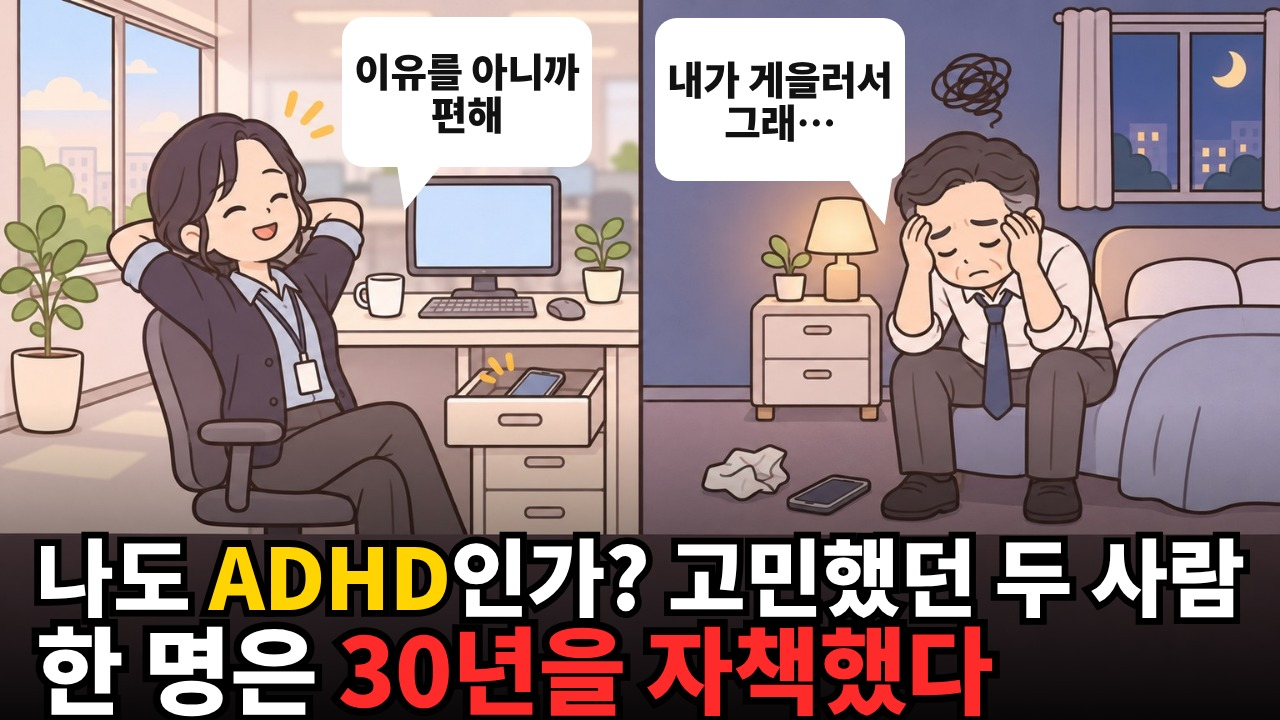
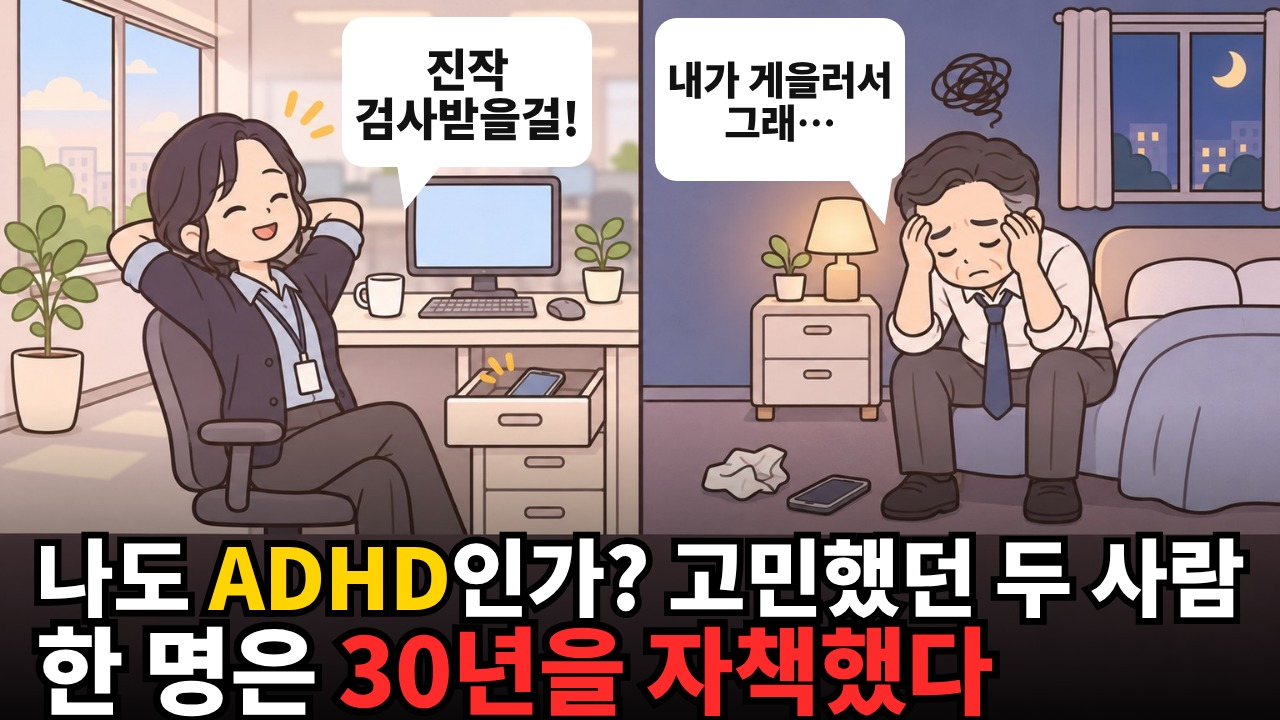
psychology: 성공 사례 썸네일 문구 갈래 분석 → ADHD 썸네일 실험안·A 말풍선 다시
- thumb_text_patterns.py v1.0: 성공 사례 94장 문구 갈래 (이유형 54.2 · 특징·비밀형 52.0 · 숫자 44.1 · 말풍선 인물 속마음 57.5 · 전체 30.0)
- 실험 1 「게으름인 줄 알았던 성인 ADHD / 스스로 확인할 3가지」 · 실험 2 「똑같이 미루던 두 사람 / 삶이 갈린 진짜 이유」 · A 「진작 검사받을걸!」
- thumbs_build.py v1.5 · status v4.56

Claude-Session: https://claude.ai/code/session_01PYG2MqrRa1FwGcWhbgqN1W

Changed region(s): [[0.2812, 0.0611, 0.4688, 0.2139]]

diff --git a/psychology/source/thumb_text_patterns.py b/psychology/source/thumb_text_patterns.py
@@ -1,0 +1,107 @@
+#!/usr/bin/env python3
+# -*- coding: utf-8 -*-
+# VERSION: v1.0 — 2026-11-24 — 신규: 심리 성공 사례 썸네일 문구 갈래 세기 (주요 문구·보조 문구)
+#   사용자 지시 2026-11-24 "실험형 썸네일 문구 성공 사례 분석해서 한거야? 분석해서 만들고 이유를 아니까를 진작에 할걸(예시) 이런식으로 고쳐봐".
+# CHANGELOG
+# | 버전 | 날짜 | 바뀐 것 | 함수 |
+# |---|---|---|---|
+# | v1.0 | 2026-11-24 | 최초 — 주요 문구 9갈래 · 보조 문구 4갈래 · 갈래마다 장 수·몫·구독자 배수 가운데값·예시 | classify · main |
+"""psychology/result/outliers/thumb_codes.tsv(성공 사례 썸네일 — Claude 가 그림을 보고 옮긴 주요·보조 문구) 를
+compare.csv(조회수·구독자 배수)와 이어 문구 갈래를 센다 → psychology/result/outliers/thumb_text_patterns.md
+
+한계: 성공 사례만 있음(실패 쪽 썸네일 문구는 분류하지 않았음) → '많이 쓰인 꼴'과 '그 안에서 배수가 큰 꼴'만 말할 수 있고,
+'이 꼴이 성공을 만든다'는 말할 수 없다. 갈래는 낱말 규칙(정규식) — 한 문구가 여러 갈래에 들 수 있다. 연구·교육용.
+실행: python3 psychology/source/thumb_text_patterns.py
+"""
+from __future__ import annotations
+
+import csv
+import re
+import statistics as st
+import sys
+import time
+from pathlib import Path
+
+ROOT = Path(__file__).resolve().parents[2]
+OUT = ROOT / "psychology" / "result" / "outliers"
+
+MAIN = [   # (갈래, 정규식, 설명)
+    ("이유형", r"이유", "'~하는 이유' — 까닭을 알려 준다는 약속"),
+    ("특징·비밀형", r"특징|공통점|비밀|심리|신호|습관", "'~하는 사람 특징·심리·비밀'"),
+    ("소름·놀람 낱말", r"소름|무서|놀라|충격|치명", "감정을 세게 거는 낱말"),
+    ("명령·경고형", r"마세요|마라|하세요|해라|하라|버리세요|하지 마", "'~하지 마세요 / ~하라'"),
+    ("질문형", r"\?|까$|까\?", "물음으로 끝남"),
+    ("1인칭 고백형", r"(^|[ '\"])(나|내|나는|내가|나를|나만|내 )|요\.{2,}|요…|다$|네\.{2,}|없다|졌다", "'나는 친구가 없다'·'혼자가 편해졌다' — 그 사람 목소리"),
+    ("후회·가정형", r"진작|더라면|할걸|했으면|몰랐", "'이 책을 진작 알았더라면…'"),
+    ("숫자", r"\d", "가짓수·나이·연도"),
+    ("말줄임", r"\.\.|…", "말끝을 흐림"),
+]
+SUB = [
+    ("인물 속마음·대사", r"\.\.|…|!|\?|요$|해$|어$|네$|지$|됐어|만;;", "그림 속 사람이 하는 말·속마음 ('제발 그만 오면 안되나..', '언젠간 쓰겠지..')"),
+    ("권위·출처", r"정신과|의사|교수|전문의|정약용|쇼펜하우어|사르트르|니체|대표", "'정신과의사'·'김형석 교수'"),
+    ("숫자", r"\d", "'12년'·'65세'·'3일'"),
+]
+
+
+def load():
+    try:
+        rows = [r for r in csv.reader(open(OUT / "thumb_codes.tsv", encoding="utf-8"), delimiter="\t") if r and not r[0].startswith("#")]
+        cmp = {r["id"]: r for r in csv.DictReader(open(OUT / "compare.csv", encoding="utf-8-sig"))}
+    except OSError as ex:
+        sys.exit(f"[LOAD] 분석 결과를 읽지 못함 ({ex}) — cloud_run.py psychology analyze 먼저")
+    hdr, rows = rows[0], rows[1:]
+    out = []
+    for r in rows:
+        d = dict(zip(hdr, r))
+        c = cmp.get(d["id"])
+        if not c or c.get("success") != "True":          # 지금 성공 사례만
+            continue
+        d["ratio"] = float(c["ratio"] or 0)
+        d["views"] = int(float(c["views"] or 0))
+        d["title"] = c["title"]
+        out.append(d)
+    return out
+
+
+def table(items, cats, key):
+    n = len(items)
+    lines = [f"| 갈래 | 장 수 | 몫 | 구독자 배수 가운데값 | 조회수 가운데값 | 예시 (배수) |", "|---|---|---|---|---|---|"]
+    base = st.median([i["ratio"] for i in items])
+    res = []
+    for name, rx, desc in cats:
+        hit = [i for i in items if i[key] and re.search(rx, i[key])]
+        if not hit:
+            lines.append(f"| {name} | 0 | 0% | — | — | — |")
+            continue
+        med = st.median([i["ratio"] for i in hit])
+        ex = " · ".join(f"「{i[key][:22]}」({i['ratio']:.0f})" for i in sorted(hit, key=lambda x: -x["ratio"])[:3])
+        lines.append(f"| {name} — {desc} | {len(hit)} | {len(hit) / n * 100:.0f}% | {med:.1f} (전체 {base:.1f}) | {st.median([i['views'] for i in hit]):,.0f} | {ex} |")
+        res.append((name, len(hit), med))
+    return lines, res
+
+
+def main() -> int:
+    t0 = time.time()
+    items = load()
+    print(f"[LOAD] [{time.strftime('%Y-%m-%dT%H:%M:%S')}] success_thumbs={len(items)} with_sub={sum(1 for i in items if i['sub_text'])}")
+    L = ["# 심리 성공 사례 썸네일 문구 갈래", "",
+         f"> `psychology/source/thumb_text_patterns.py` v1.0 · {time.strftime('%Y-%m-%d')} · 사용자 지시 \"실험형 썸네일 문구 성공 사례 분석해서 한거야? 분석해서 만들고 …\"",
+         f"> 자료: `thumb_codes.tsv` 성공 사례 {len(items)}장 (Claude 가 그림을 보고 옮긴 문구) + `compare.csv` 배수. **한계: 성공 사례만** — 많이 쓰인 꼴·그 안에서 배수가 큰 꼴만 보임, 인과 아님. 갈래는 낱말 규칙(겹침 있음).", ""]
+    L += ["## 1. 주요 문구 (큰 글자)", ""]
+    t, res_m = table(items, MAIN, "main_text")
+    L += t
+    subs = [i for i in items if i["sub_text"]]
+    L += ["", f"## 2. 보조 문구 (말풍선·꼬리표) — 있는 썸네일 {len(subs)}/{len(items)}장 ({len(subs) / len(items) * 100:.0f}%)", ""]
+    t, res_s = table(subs, SUB, "sub_text")
+    L += t
+    L += ["", "## 3. 가운데값 비교 — 보조 문구가 있는 썸네일 vs 없는 썸네일", "",
+          f"- 있음 {len(subs)}장 배수 가운데값 {st.median([i['ratio'] for i in subs]):.1f} · 없음 {len(items) - len(subs)}장 {st.median([i['ratio'] for i in items if not i['sub_text']]):.1f}", ""]
+    (OUT / "thumb_text_patterns.md").write_text("\n".join(L) + "\n", encoding="utf-8")
+    for name, n, med in res_m + res_s:
+        print(f"[PATTERN] {name} n={n} ratio_median={med:.1f}")
+    print(f"[DONE] out={(OUT / 'thumb_text_patterns.md').relative_to(ROOT)} seconds={time.time() - t0:.1f}")
+    return 0
+
+
+if __name__ == "__main__":
+    sys.exit(main())

diff --git a/psychology/source/thumbs_build.py b/psychology/source/thumbs_build.py
@@ -1,6 +1,7 @@
 #!/usr/bin/env python3
 # -*- coding: utf-8 -*-
-# VERSION: v1.4 — 2026-11-24 — 편마다 3안을 따로 (variants: 안마다 문구 2줄·말풍선 여러 개) — 사용자 지시 "둘다 말풍선 넣고 두번재 줄 괄호 제거해 그리고 나머지 2개는 실험형으로 너가 문구를 만드는 거야"
+# VERSION: v1.5 — 2026-11-24 — adhd-ab-2026-11 실험 문구·A 말풍선을 성공 사례 썸네일 분석(thumb_text_patterns.md)으로 — 사용자 지시 "실험형 썸네일 문구 성공 사례 분석해서 한거야? 분석해서 만들고 이유를 아니까를 진작에 할걸(예시) 이런식으로 고쳐봐"
+# 이전 v1.4 — 2026-11-24 — 편마다 3안을 따로 (variants: 안마다 문구 2줄·말풍선 여러 개) — 사용자 지시 "둘다 말풍선 넣고 두번재 줄 괄호 제거해 그리고 나머지 2개는 실험형으로 너가 문구를 만드는 거야"
 # 이전 v1.3 — 2026-11-24 — adhd-ab-2026-11 (일상툰 · 그림 아래 어두운 띠 y 74% 부터): 편마다 글 상자(l1·l2)·꼬리 방향·설명 줄을 따로 — 사용자 지시 "1번으로 하고 썸네일 만들어봐"
 # 이전 v1.2 — 2026-11-13 — 말풍선 꼬리가 말하는 사람(말풍선 왼쪽 아래) 쪽으로 기울게 (tail right · 18%)
 # 이전 v1.1 — 2026-11-13 — 말풍선을 머리 옆 빈 곳 끝까지 넓히고 줄을 나눠 글자를 키움 (40~46px → 크게 · 낱말 그대로)
@@ -9,6 +10,7 @@
 # CHANGELOG
 # | 버전 | 날짜 | 바뀐 것 | 함수 |
 # |---|---|---|---|
+# | v1.5 | 2026-11-24 | adhd-ab-2026-11 실험 1·2 = 성공 사례 갈래(특징+숫자 · 이유형) · A 말풍선 = 인물 속마음 「진작 검사받을걸!」 | EP |
 # | v1.4 | 2026-11-24 | variants (안마다 문구·말풍선 여러 개) — package.json thumb_tests 와 글자 대조 | build |
 # | v1.3 | 2026-11-24 | 편마다 l1·l2 글 상자 · tail·tailPos · note (adhd-ab-2026-11) | EP · bubble · build |
 # | v1.2 | 2026-11-13 | 꼬리 방향 = 말하는 사람 쪽 | bubble |
@@ -68,13 +70,13 @@ EP = {
     "adhd-ab-2026-11": {
         "l1": [36, 524, 1208, 94], "l2": [36, 616, 1000, 100],
         # v1.4 두 사람 모두 말풍선 — A 머리 오른쪽 사무실 벽(모니터 위) · B 머리 왼쪽 어두운 벽 (사람·스탠드·낙서 구름을 가리지 않음)
-        "bubbles": [[[410, 20, 300, 180], "이유를 아니까\n편해", "right", 0.18], [[786, 22, 300, 196], "내가 게을러서\n그래…", "left", 0.78]],
+        "bubbles": [[[410, 20, 300, 180], "진작\n검사받을걸!", "right", 0.18], [[786, 22, 300, 196], "내가 게을러서\n그래…", "left", 0.78]],
         "variants": [
             ("본안 — 사용자 문구", [[["나도 ", "W"], ["ADHD", "Y"], ["인가? 고민했던 두 사람", "W"]], [["한 명은 ", "W"], ["30년을 자책했다", "R"]]]),
-            ("실험 1 — 영상의 질문 + 안 받은 쪽 결과", [[["ADHD 검사, ", "W"], ["시간 낭비", "Y"], ["일까?", "W"]], [["안 받은 사람의 ", "W"], ["30년", "R"]]]),
-            ("실험 2 — 게으름이 아닌 이유", [[["게으른 줄", "Y"], [" 알았던 두 사람", "W"]], [["한 명만 ", "W"], ["진짜 이유", "Y"], ["를 알았다", "W"]]]),
+            ("실험 1 — 특징·비밀형 + 숫자 (성공 사례 배수 52.0 · 숫자 44.1)", [[["게으름인 줄 알았던 ", "W"], ["성인 ADHD", "Y"]], [["스스로 확인할 ", "W"], ["3가지", "Y"]]]),
+            ("실험 2 — 이유형 (성공 사례 배수 54.2)", [[["똑같이 미루던 두 사람", "W"]], [["삶이 갈린 ", "W"], ["진짜 이유", "Y"]]]),
         ],
-        "note": "본안 = 사용자 문구 · 실험 1·2 = Claude 문구 · 말풍선 = A(대본 80번 생각과 같은 뜻)·B(대본 46번) — 제목이 정해지면 persona_loop title 단계",
+        "note": "본안 = 사용자 문구 · 실험 1·2 = 성공 사례 썸네일 갈래(psychology/result/outliers/thumb_text_patterns.md) · 말풍선 = 인물 속마음(갈래 배수 57.5) A 「진작 검사받을걸!」·B(대본 46번) — 제목이 정해지면 persona_loop title 단계",
         "_": "B 머리(x 70~82% · y 18~42%) 왼쪽 어두운 벽 (스탠드 x 63~69% · y 27% 아래는 비움) · A 쪽은 비워 둠",
     },
 }

diff --git a/guides/status.md b/guides/status.md
@@ -1,6 +1,7 @@
 # 지금 상태·다음 할 일 (인수인계)
 
-버전: v4.55 — 2026-11-24 — **심리 — ADHD 썸네일 3안 다시** (사용자 지시 "둘다 말풍선 넣고 두번재 줄 괄호 제거해 그리고 나머지 2개는 실험형으로 너가 문구를 만드는 거야"): 본안 「나도 ADHD인가? 고민했던 두 사람 / 한 명은 30년을 자책했다」 · 실험 1 「ADHD 검사, 시간 낭비일까? / 안 받은 사람의 30년」 · 실험 2 「게으른 줄 알았던 두 사람 / 한 명만 진짜 이유를 알았다」 · 말풍선 A 「이유를 아니까 편해」 · B 「내가 게을러서 그래…」 (`thumbs_build.py` v1.4 · `package.json` thumb_tests). 남은 것: 제목 → persona_loop title 단계
+버전: v4.56 — 2026-11-24 — **심리 — 성공 사례 썸네일 문구 갈래 분석 + ADHD 썸네일 실험안** (사용자 지시 "실험형 썸네일 문구 성공 사례 분석해서 한거야? 분석해서 만들고 이유를 아니까를 진작에 할걸(예시) 이런식으로 고쳐봐"): 새 도구 `psychology/source/thumb_text_patterns.py` v1.0 → `psychology/result/outliers/thumb_text_patterns.md` (성공 사례 94장 · 주요 문구 이유형 배수 54.2 · 특징·비밀형 52.0 · 숫자 44.1 · 전체 30.0 · 보조 문구 인물 속마음 57.5) → ADHD 실험 1 「게으름인 줄 알았던 성인 ADHD / 스스로 확인할 3가지」 · 실험 2 「똑같이 미루던 두 사람 / 삶이 갈린 진짜 이유」 · A 말풍선 「진작 검사받을걸!」 (`thumbs_build.py` v1.5). 남은 것: 제목 → persona_loop title 단계
+이전 v4.55 — 2026-11-24 — **심리 — ADHD 썸네일 3안 다시** (사용자 지시 "둘다 말풍선 넣고 두번재 줄 괄호 제거해 그리고 나머지 2개는 실험형으로 너가 문구를 만드는 거야"): 본안 「나도 ADHD인가? 고민했던 두 사람 / 한 명은 30년을 자책했다」 · 실험 1 「ADHD 검사, 시간 낭비일까? / 안 받은 사람의 30년」 · 실험 2 「게으른 줄 알았던 두 사람 / 한 명만 진짜 이유를 알았다」 · 말풍선 A 「이유를 아니까 편해」 · B 「내가 게을러서 그래…」 (`thumbs_build.py` v1.4 · `package.json` thumb_tests). 남은 것: 제목 → persona_loop title 단계
 이전 v4.54 — 2026-11-24 — **심리 — ADHD 썸네일 3안** (사용자 지시 "썸네일 문구: 나도 ADHD인가? 고민했던 두 사람 / (삶의 질이 정반대) 이런식으로 … 아랫줄 부분 너가 써봐" → "1번으로 하고 썸네일 만들어봐"): `psychology/source/adhd-ab-2026-11/package.json` (윗줄 사용자 문구 · 아랫줄 「(한 명은 30년을 자책했다)」 · 보조 「내가 게을러서 그래…」) → `psychology/source/thumbs_build.py` v1.3 → `thumbnails/thumbnail_1~3.jpg` (본안 · 보조 없음 · 강조 색 바꿈). 남은 것: 제목 → persona_loop title 단계 (제목이 있어야 피드 시험)
 이전 v4.55 — 2026-11-24 — **위기 채널 — 한라산 심정지 대본 v1.1 (심정지 위험 중심)** (사용자 지시 "그런데 국립공원에서 숨진 사람의 절반은, 낙사가 아닌 등산 중 심정지 때문이었습니다. 이렇게 바꾸고 심정지 위험을 알리는데 중점을 맞춰서 디테일하게 묘사를 해 그리고 다른 심정지 사례도 간단하게 언급해서 위험성을 알려"): `crisis/source/hallasan-simjeongji-2026-11/대본_초안.txt` v1.1 — 도입 문장 교체 · 심정지 순간·4분 · 2020 지리산 헬기 불시착 · 왜 산에서 · 다른 사례 5건(2023 둘레길 · 2025-05 성판악 · 2026-08 청량산 · 2026-10 운악산 · 2026-10 성판악) · 급성심장정지 통계 · 옆 사람이 쓰러졌다면 · 약 7.5분 · 페르소나 관문 안 거친 초안.
 이전 v4.54 — 2026-11-24 — **위기 채널 — 한라산 실제 사례 대본 초안 (헬기가 뜨지 못한 날)** (사용자 지시 "한라산 실제 사례로 다시 써봐 사망했고 자세하게 설명 가능한 사례 하나 골라서 작성해 A,B 비교만하지말고 나머지는 같은 형식으로 써봐"): `crisis/source/hallasan-simjeongji-2026-11/대본_초안.txt` v1.0 — 2025-03-17 성판악 4-21 지점 60대 관광객 심정지(08:12 신고 · 강풍주의보 · 닥터헬기 불가 · 09:26 모노레일 · 12:04 사망 판정) + 같은 길 반복(2025-05-26 · 2026-10-26) · 심리 편 형식(A/B 없이) · 약 4.7분 · 근거 `근거.md` · 페르소나 관문 안 거친 초안.

diff --git a/psychology/result/outliers/thumb_text_patterns.md b/psychology/result/outliers/thumb_text_patterns.md
@@ -1,0 +1,31 @@
+# 심리 성공 사례 썸네일 문구 갈래
+
+> `psychology/source/thumb_text_patterns.py` v1.0 · 2026-11-24 · 사용자 지시 "실험형 썸네일 문구 성공 사례 분석해서 한거야? 분석해서 만들고 …"
+> 자료: `thumb_codes.tsv` 성공 사례 94장 (Claude 가 그림을 보고 옮긴 문구) + `compare.csv` 배수. **한계: 성공 사례만** — 많이 쓰인 꼴·그 안에서 배수가 큰 꼴만 보임, 인과 아님. 갈래는 낱말 규칙(겹침 있음).
+
+## 1. 주요 문구 (큰 글자)
+
+| 갈래 | 장 수 | 몫 | 구독자 배수 가운데값 | 조회수 가운데값 | 예시 (배수) |
+|---|---|---|---|---|---|
+| 이유형 — '~하는 이유' — 까닭을 알려 준다는 약속 | 16 | 17% | 54.2 (전체 30.0) | 247,818 | 「늙을수록 친구를 손절하는 소름돋는 이유」(412) · 「집에만 있고 싶다 사실 이유가 있습니다」(399) · 「1960,70년대 태어난 사람들이 특별한」(260) |
+| 특징·비밀형 — '~하는 사람 특징·심리·비밀' | 22 | 23% | 52.0 (전체 30.0) | 306,202 | 「의자 넣는 사람 소름 돋는 심리」(802) · 「'일시불'만 고집하는 사람들의 소름 돋는」(475) · 「나르시시스트 엄마 특징」(176) |
+| 소름·놀람 낱말 — 감정을 세게 거는 낱말 | 11 | 12% | 42.5 (전체 30.0) | 241,862 | 「의자 넣는 사람 소름 돋는 심리」(802) · 「'일시불'만 고집하는 사람들의 소름 돋는」(475) · 「늙을수록 친구를 손절하는 소름돋는 이유」(412) |
+| 명령·경고형 — '~하지 마세요 / ~하라' | 10 | 11% | 31.9 (전체 30.0) | 238,283 | 「친할수록 절대 보여주지 마세요」(244) · 「대답하지 말고 '이 말'만 하라 오히려 」(203) · 「잘해주지 말고 '이렇게'하세요 존중받는 」(200) |
+| 질문형 — 물음으로 끝남 | 4 | 4% | 42.1 (전체 30.0) | 152,786 | 「왜 니체는 인생 후반전에 물건부터 치우라」(119) · 「혼자가 오히려 강하다?」(58) · 「잘난 척 안 했는데 왜 날 질투할까?」(27) |
+| 1인칭 고백형 — '나는 친구가 없다'·'혼자가 편해졌다' — 그 사람 목소리 | 31 | 33% | 22.7 (전체 30.0) | 245,487 | 「집에만 있고 싶다 사실 이유가 있습니다」(399) · 「대답하지 말고 '이 말'만 하라 오히려 」(203) · 「여자 셋이 모이면 꼭 한 명이 힘듭니다」(194) |
+| 후회·가정형 — '이 책을 진작 알았더라면…' | 1 | 1% | 58.2 (전체 30.0) | 259,375 | 「이 책을 진작 알았더라면...」(58) |
+| 숫자 — 가짓수·나이·연도 | 10 | 11% | 44.1 (전체 30.0) | 213,622 | 「1960,70년대 태어난 사람들이 특별한」(260) · 「잘해주지 말고 '이렇게'하세요 존중받는 」(200) · 「나이 들수록 친구에게 자랑하면 안 되는 」(114) |
+| 말줄임 — 말끝을 흐림 | 4 | 4% | 38.2 (전체 30.0) | 333,768 | 「예쁜 여자도 매달립니다 이 남자 특징 하」(103) · 「이 책을 진작 알았더라면...」(58) · 「할 일을 미루고 계속 잠만 자요...」(18) |
+
+## 2. 보조 문구 (말풍선·꼬리표) — 있는 썸네일 44/94장 (47%)
+
+| 갈래 | 장 수 | 몫 | 구독자 배수 가운데값 | 조회수 가운데값 | 예시 (배수) |
+|---|---|---|---|---|---|
+| 인물 속마음·대사 — 그림 속 사람이 하는 말·속마음 ('제발 그만 오면 안되나..', '언젠간 쓰겠지..') | 19 | 43% | 57.5 (전체 34.0) | 428,018 | 「일시불!」(475) · 「혼자의 미학??...」(412) · 「제발 그만 오면 안되나..」(244) |
+| 권위·출처 — '정신과의사'·'김형석 교수' | 12 | 27% | 25.4 (전체 34.0) | 252,702 | 「사생활 캐묻거든 · 정약용」(203) · 「정신과 전문의」(89) · 「ADHD 정신과 의사의 재수 1년」(63) |
+| 숫자 — '12년'·'65세'·'3일' | 8 | 18% | 42.5 (전체 34.0) | 422,496 | 「ADHD 정신과 의사의 재수 1년」(63) · 「12년 현장의 경험」(57) · 「단,3일이면 인생이 바뀝니다」(50) |
+
+## 3. 가운데값 비교 — 보조 문구가 있는 썸네일 vs 없는 썸네일
+
+- 있음 44장 배수 가운데값 34.0 · 없음 50장 29.8
+
